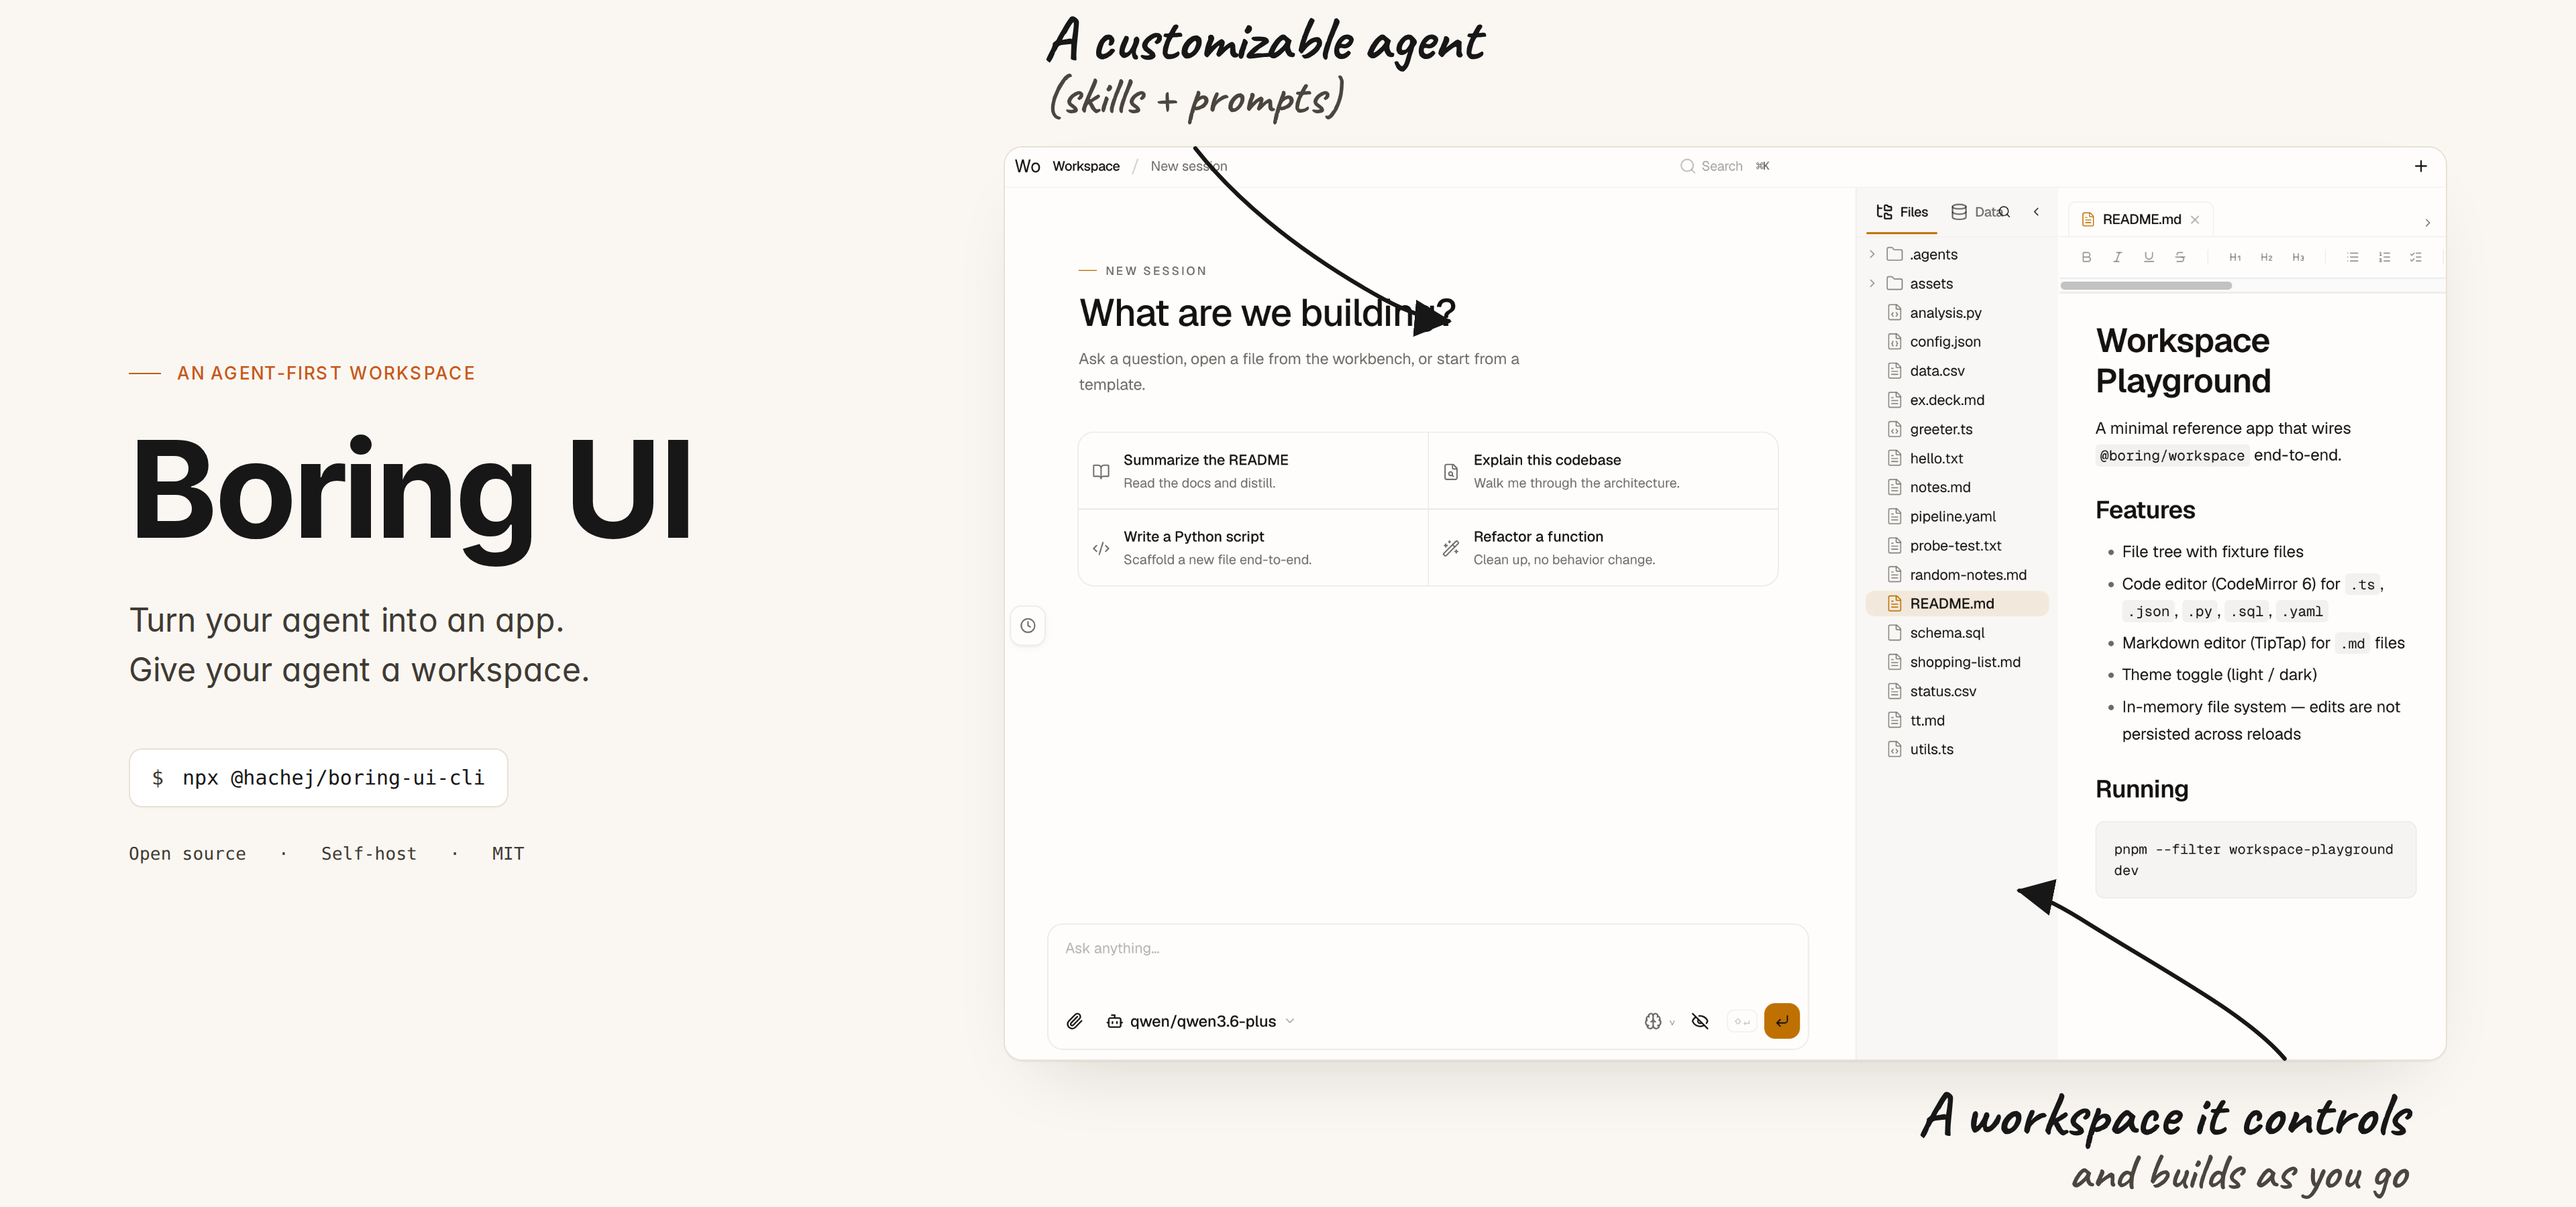
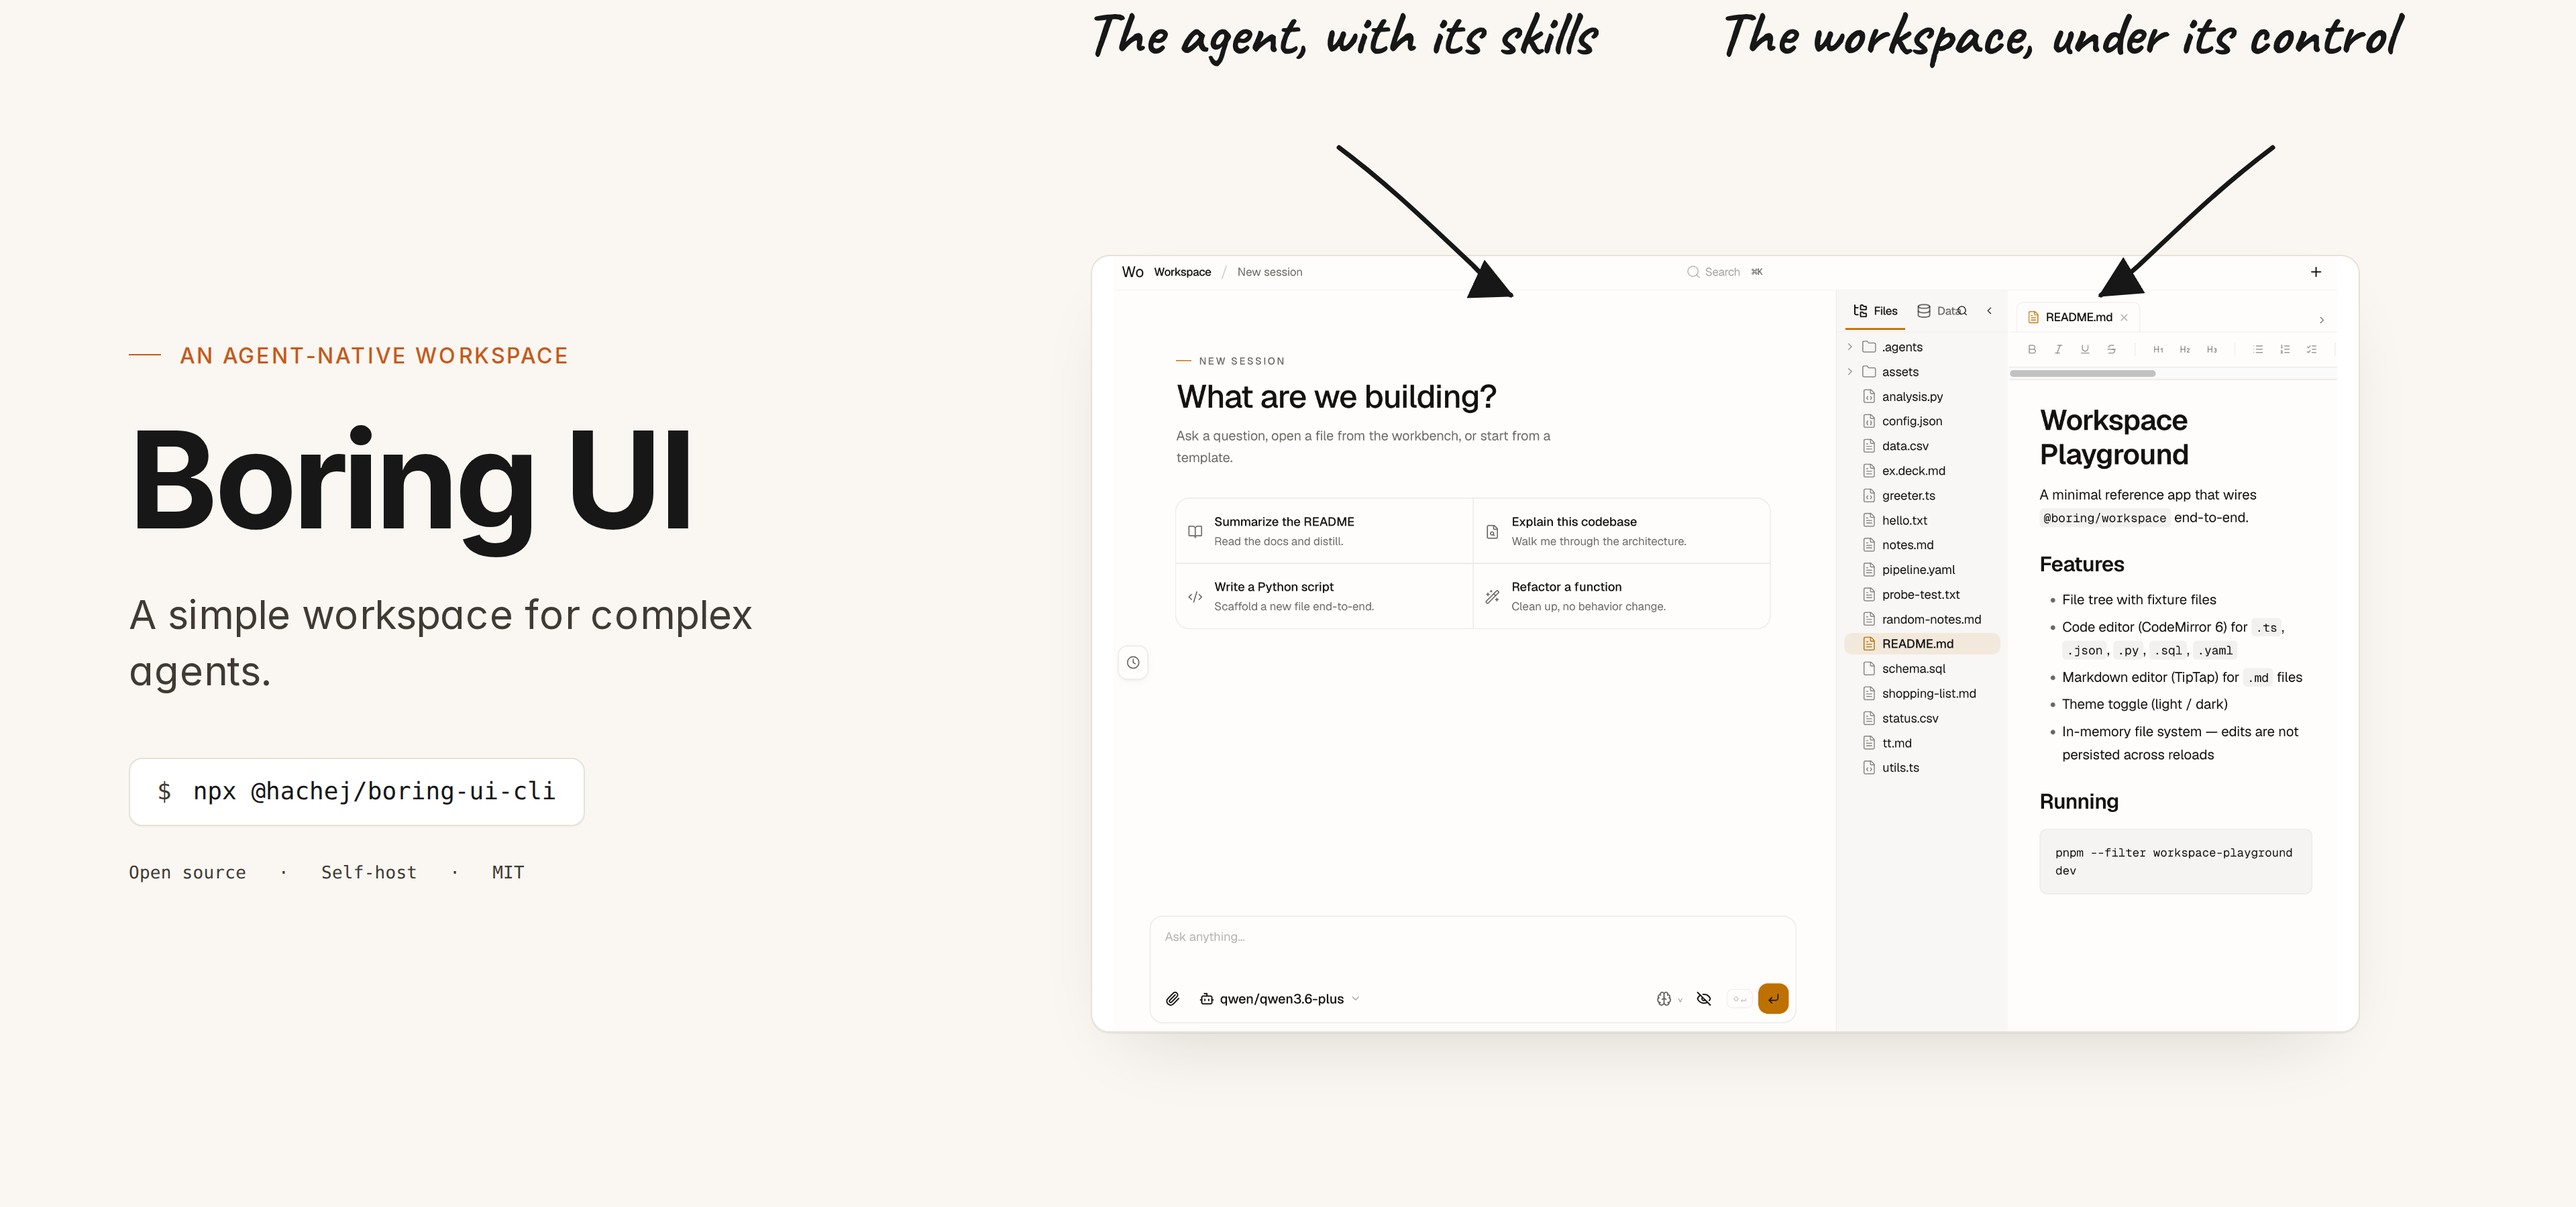
docs(readme): lighten hero copy — Gemini-guided iteration
Iterated copy with multimodal Gemini grading. Brought from 'feels
heavy' to clean editorial single-line beats:

- Eyebrow:  AN AGENT-FIRST WORKSPACE → AN AGENT-NATIVE WORKSPACE
- Lede:     2 declarative sentences → 1 sentence
            ("A simple workspace for complex agents.")
- Annot L:  'A customizable agent / (skills + prompts)'
            → 'The agent, with its skills' (single line)
- Annot R:  'A workspace it controls / and builds as you go'
            → 'The workspace, under its control' (single line)

Layout: both annotations now positioned at the top of the screenshot
column with arrows curving down into their respective halves. Reader
flow: read label → follow arrow → see surface. Clearer transition
than the previous top/bottom split.

Trade-off held: hand-drawn Caveat type continues to penalize the
brand axis on Gemini's scale (5.0/10) vs the .impeccable spec — but
user prioritizes the playful annotation legibility over editorial
austerity here.

diff --git a/scripts/hero/hero.html b/scripts/hero/hero.html
@@ -45,13 +45,13 @@
     .eyebrow {
       display: inline-flex;
       align-items: center;
-      gap: 12px;
-      font-size: 13px;
+      gap: 14px;
+      font-size: 16px;
       letter-spacing: 0.10em;
       text-transform: uppercase;
       color: var(--accent);
       font-weight: 500;
-      margin-bottom: 32px;
+      margin-bottom: 36px;
     }
     .eyebrow::before {
       content: "";
@@ -68,23 +68,23 @@
       margin: 0 0 32px 0;
     }
     p.lede {
-      font-size: 24px;
-      line-height: 1.55;
+      font-size: 30px;
+      line-height: 1.4;
       color: var(--muted);
-      margin: 0 0 40px 0;
-      max-width: 480px;
+      margin: 0 0 44px 0;
+      max-width: 520px;
       font-weight: 400;
     }
     .cmd {
       display: inline-flex;
       align-items: center;
-      gap: 14px;
+      gap: 16px;
       font-family: var(--mono);
-      font-size: 15px;
+      font-size: 18px;
       color: var(--fg);
       background: var(--canvas);
       border: 1px solid var(--hairline);
-      padding: 12px 16px;
+      padding: 14px 20px;
       border-radius: 10px;
       box-shadow: 0 1px 0 rgba(0,0,0,0.02);
       max-width: fit-content;
@@ -111,8 +111,8 @@
       justify-content: center;
     }
     .shot {
-      width: 100%;
-      max-height: 720px;
+      width: 88%;
+      max-height: 580px;
       height: auto;
       object-fit: contain;
       border-radius: 14px;
@@ -122,6 +122,7 @@
         0 24px 56px -28px rgba(20, 16, 8, 0.18);
       background: var(--canvas);
       display: block;
+      margin-top: 60px;
     }
 
     .annot {
@@ -141,8 +142,8 @@
       color: #4A463E;
       margin-top: 2px;
     }
-    .annot.top-left { top: 8px; left: 30px; max-width: 520px; }
-    .annot.bottom-right { bottom: 8px; right: 30px; max-width: 560px; text-align: right; }
+    .annot.top-left  { top: 4px; left: 60px;  max-width: 460px; }
+    .annot.top-right { top: 4px; right: 40px; max-width: 540px; text-align: right; }
 
     .arrow {
       position: absolute;
@@ -151,26 +152,25 @@
     }
     .arrow.top-left {
       top: 100px;
-      left: 100px;
-      width: 280px;
-      height: 150px;
+      left: 220px;
+      width: 220px;
+      height: 130px;
     }
-    .arrow.bottom-right {
-      bottom: 100px;
-      right: 80px;
-      width: 280px;
-      height: 150px;
+    .arrow.top-right {
+      top: 100px;
+      right: 100px;
+      width: 220px;
+      height: 130px;
     }
   </style>
 </head>
 <body>
   <div class="hero">
     <div class="text">
-      <div class="eyebrow">An agent-first workspace</div>
+      <div class="eyebrow">An agent-native workspace</div>
       <h1>Boring UI</h1>
       <p class="lede">
-        Turn your agent into an app.<br/>
-        Give your agent a workspace.
+        A simple workspace for complex agents.
       </p>
       <div class="cmd">
         <span class="dollar">$</span>
@@ -184,34 +184,36 @@
     <div class="shot-wrap">
       <img class="shot" src="../../docs/assets/readme/source-hero.png" alt="Boring UI workspace" />
 
-      <!-- Top annotation: customizable agent → arrow into chat hero -->
-      <div class="annot top-left">A customizable agent<span class="sub">(skills + prompts)</span></div>
-      <svg class="arrow top-left" viewBox="0 0 280 170" fill="none" xmlns="http://www.w3.org/2000/svg">
+      <!-- Both annotations at the top — arrows curve down into their halves of the screenshot -->
+
+      <!-- LEFT: agent + skills → arrow down into chat hero ("What are we building?") -->
+      <div class="annot top-left">The agent, with its skills</div>
+      <svg class="arrow top-left" viewBox="0 0 220 130" fill="none" xmlns="http://www.w3.org/2000/svg">
         <defs>
           <marker id="ah-tl" viewBox="0 0 12 12" refX="11" refY="6"
                   markerWidth="9" markerHeight="9" orient="auto-start-reverse">
             <path d="M0,0 L12,6 L0,12 Z" fill="#171717" />
           </marker>
         </defs>
-        <path d="M30,12 C60,50 110,96 190,140 Q220,156 244,158"
+        <path d="M30,10 C70,40 100,70 130,98 Q145,114 158,120"
               stroke="#171717" stroke-width="3.5" fill="none"
               stroke-linecap="round" stroke-linejoin="round"
               marker-end="url(#ah-tl)" />
       </svg>
 
-      <!-- Bottom annotation: workspace agent controls + builds → arrow into workbench -->
-      <div class="annot bottom-right">A workspace it controls<span class="sub">and builds as you go</span></div>
-      <svg class="arrow bottom-right" viewBox="0 0 280 170" fill="none" xmlns="http://www.w3.org/2000/svg">
+      <!-- RIGHT: workspace under agent control → arrow down into workbench (README pane) -->
+      <div class="annot top-right">The workspace, under its control</div>
+      <svg class="arrow top-right" viewBox="0 0 220 130" fill="none" xmlns="http://www.w3.org/2000/svg">
         <defs>
-          <marker id="ah-br" viewBox="0 0 12 12" refX="11" refY="6"
+          <marker id="ah-tr" viewBox="0 0 12 12" refX="11" refY="6"
                   markerWidth="9" markerHeight="9" orient="auto-start-reverse">
             <path d="M0,0 L12,6 L0,12 Z" fill="#171717" />
           </marker>
         </defs>
-        <path d="M252,158 C220,120 150,84 80,40 Q48,20 28,16"
+        <path d="M190,10 C150,40 120,70 90,98 Q72,114 62,120"
               stroke="#171717" stroke-width="3.5" fill="none"
               stroke-linecap="round" stroke-linejoin="round"
-              marker-end="url(#ah-br)" />
+              marker-end="url(#ah-tr)" />
       </svg>
     </div>
   </div>
